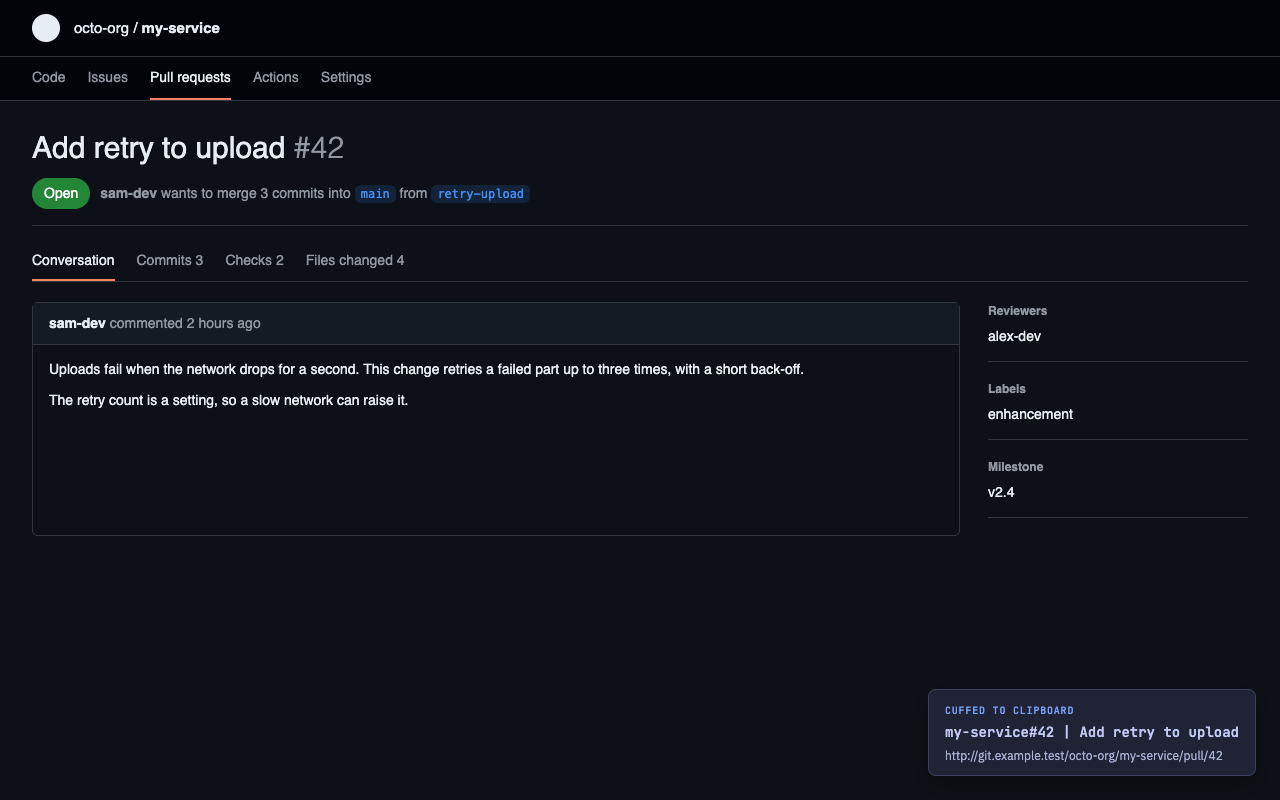
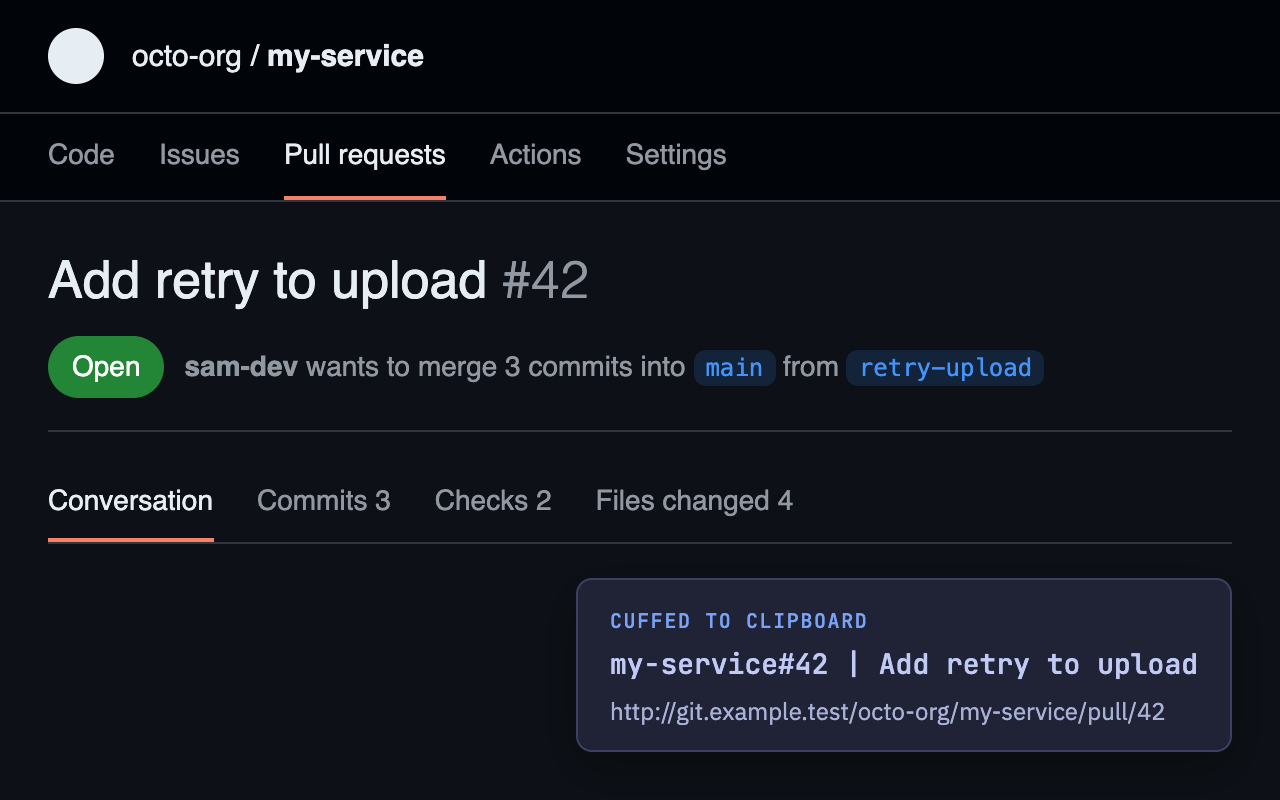
docs(images): re-shoot the pull request card over empty page area at device scale 2

diff --git a/docs/images/src/pr-page.html b/docs/images/src/pr-page.html
@@ -2,7 +2,8 @@
 <!--
   Made-up code host pull request page for the card screenshots.
   Serve it at /octo-org/my-service/pull/42/. Steps: "Refresh the README and store images" in CONTRIBUTING.md.
-  Below 760 px wide, the page drops the sidebar so that a tight shot keeps the card large.
+  Below 760 px wide, the page drops the sidebar and the comment, so that a tight shot keeps the
+  card large and the card sits over empty page area.
 -->
 <html lang="en">
   <head>
@@ -167,9 +168,6 @@
           font-size: 26px;
         }
         .layout {
-          grid-template-columns: 1fr;
-        }
-        .side {
           display: none;
         }
       }

diff --git a/CONTRIBUTING.md b/CONTRIBUTING.md
@@ -96,9 +96,11 @@ The headless check in `.agents/skills/verify/SKILL.md` has the exact commands fo
 
 | Image                              | Source page, served at                            | Viewport                  |
 | ---------------------------------- | ------------------------------------------------- | ------------------------- |
-| `docs/images/copied-card.png`      | `pr-page.html` at `/octo-org/my-service/pull/42/` | 640×360 at device scale 2 |
+| `docs/images/copied-card.png`      | `pr-page.html` at `/octo-org/my-service/pull/42/` | 640×400 at device scale 2 |
 | `docs/images/copied-card-jira.png` | `jira-page.html` at `/browse/ABC-123/`            | 640×360 at device scale 2 |
-| `docs/store/screenshot-2.png`      | `pr-page.html` at `/octo-org/my-service/pull/42/` | 1280×800                  |
+| `docs/store/screenshot-2.png`      | `pr-page.html` at `/octo-org/my-service/pull/42/` | 640×400 at device scale 2 |
+
+Check that the card sits over empty page area and that no text line is cut at an edge of the image.
 
 ## Pull requests
 
